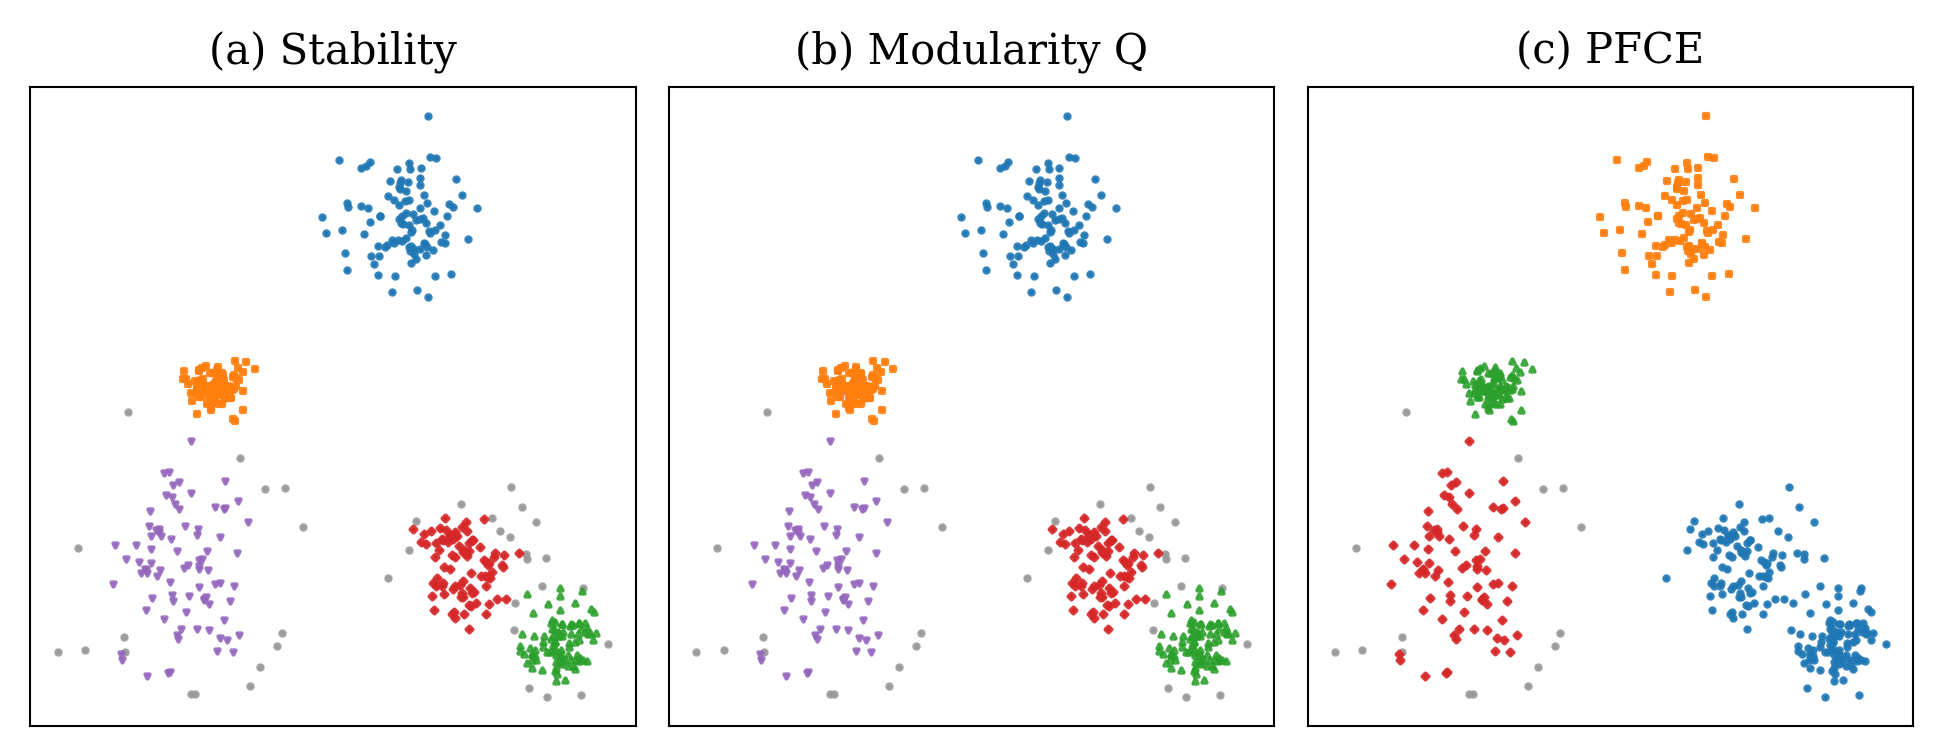
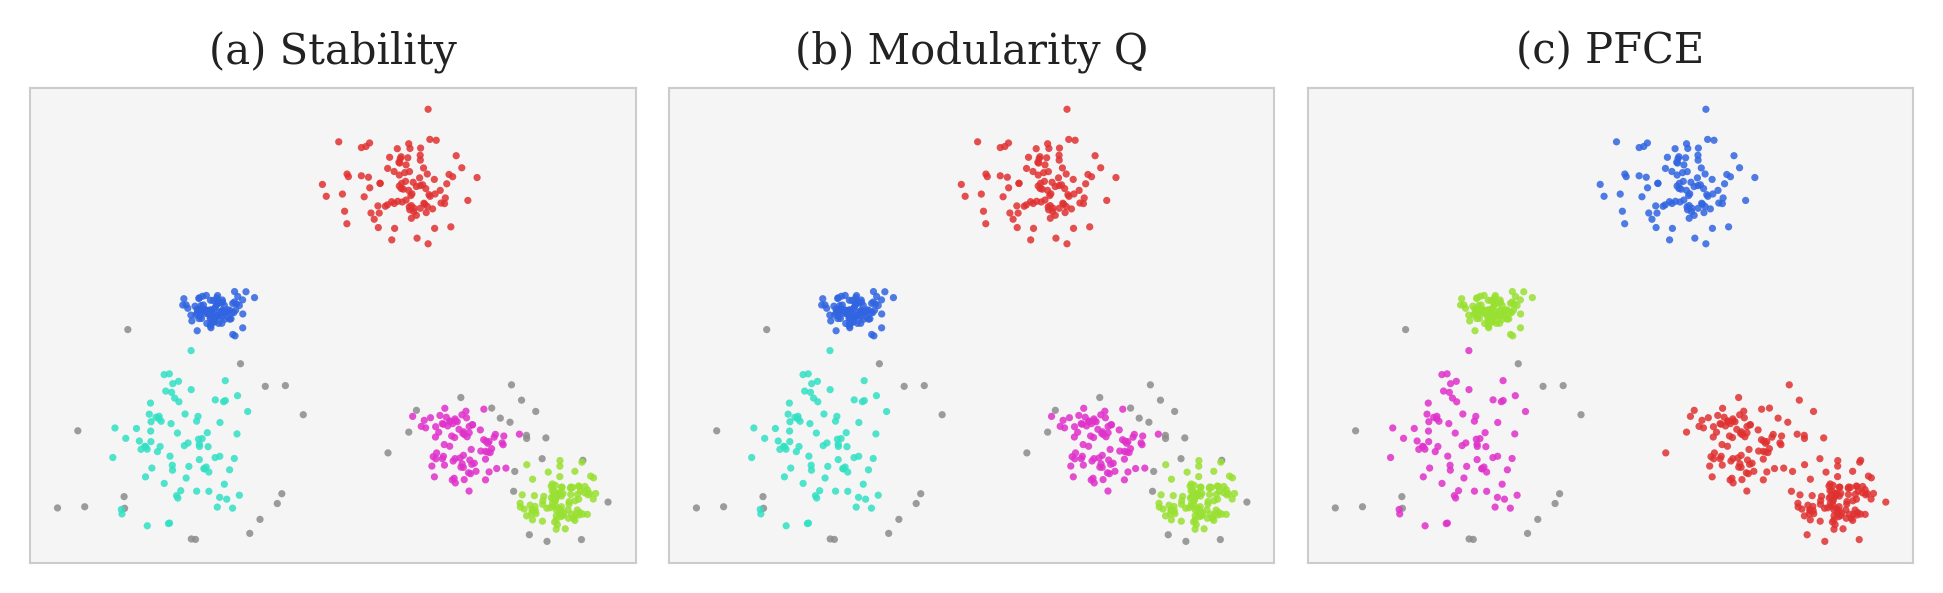
Add files via upload

diff --git a/docs/conf.py b/docs/conf.py
@@ -4,6 +4,8 @@ import os
 import sys
 from pathlib import Path
 import subprocess
+import foscx
+from foscx.foscx import FOSCX
 
 sys.path.insert(0, os.path.abspath("../src"))
 
@@ -15,12 +17,15 @@ author = 'Connor Simpson'
 release = '0.1.0'
 
 # -- General configuration ---------------------------------------------------
+primary_domain = 'py'
+default_role = 'py:obj'
 
 extensions = [
     'myst_parser',              # ✅ Markdown support
     'sphinx.ext.autodoc',
     'sphinx.ext.napoleon',
     'sphinx.ext.viewcode',
+    'sphinx.ext.intersphinx',
 ]
 napoleon_google_docstring = False
 napoleon_numpy_docstring = True
@@ -51,6 +56,10 @@ autodoc_default_options = {
     'undoc-members': True,
     'inherited-members': False,
 }
+
+autodoc_typehints = "description"
+
+autodoc_mock_imports = []
 
 # Skip sklearn internals
 def skip_member(app, what, name, obj, skip, options):

diff --git a/docs/basic_usage.rst b/docs/basic_usage.rst
@@ -1,34 +1,47 @@
 Basic Usage
 ===========
 
-FOSC-X (Framework for Optimal Extraction of Clusters) is designed to extract
-high-quality flat clusterings from a hierarchical clustering tree.
+FOSC-X is designed to extract multiple high-quality flat clusterings from hierarchical
+clustering trees.
 
-Rather than producing a single clustering, FOSC-X explores multiple possible
-solutions under optional cluster-count constraints. It returns the ``top_M``
-globally optimal solutions within these constraints, ranked from best to worst.
+Rather than producing a single clustering, FOSC-X explores a range of candidate
+solutions and returns the ``top_M`` best ones, ranked from best to worst.
+Optional constraints on the number of clusters (``kmin`` and ``kmax``) allow you
+to restrict the search to solutions of interest, focusing on a meaningful range
+of cluster counts.
+
+FOSC-X performs **local, non-horizontal cuts** of the hierarchy. This
+allows different branches of the tree to be cut at different levels, producing
+clusterings that better reflect the underlying structure of the data.
+
+The result is a set of high-quality, diverse clusterings that provide multiple
+plausible interpretations of the data, rather than a single fixed solution.
+
+FOSC-X follows a familiar scikit-learn style API, so if you have used sklearn
+estimators before, the workflow should feel natural.
+
+Supported Input Formats
+-----------------------
 
 FOSC-X is designed to work with a range of common hierarchical clustering outputs,
 including:
 
-- HDBSCAN 
-- scikit-learn (AgglomerativeClustering)
-- SciPy linkage matrices
-- Condensed Tree/Non-Binary tree matrices
-- Pre-Computed Trees (JSON) (See :ref:`JSON Tree format <json_tree>`)
+- HDBSCAN*  
+- scikit-learn (``AgglomerativeClustering`` and ``HDBSCAN*``)  
+- SciPy linkage matrices  
+- Condensed / non-binary tree matrices  
+- Pre-computed trees (JSON format) (see :ref:`json_tree`)  
 
-Using these formats is intentionally simple, just pass in the object or model you already have.
-For more details, see :ref:`tree_formats`.
+Using these formats is intentionally simple—just pass in the object or model you
+already have. For more details, see :ref:`tree_formats`.
 
-FOSC-X follows a familiar scikit-learn style API, so if you have used sklearn
-estimators before, the workflow should feel natural.
 
 Example
 -------
 
 Below is a minimal example using a SciPy-style hierarchical clustering.
 
-We begin by generating some sample data and constructing a hierarchical tree:
+We begin by generating some sample data and constructing a hierarchy:
 
 .. code-block:: python
 
@@ -36,29 +49,51 @@ We begin by generating some sample data and constructing a hierarchical tree:
     from scipy.cluster.hierarchy import linkage
     from sklearn.datasets import make_blobs
 
-    from foscx import FOSCX
-
     # Generate sample data
     X, _ = make_blobs(n_samples=300, centers=4, random_state=42)
 
-    # Build hierarchical clustering (SciPy linkage)
+    # Build hierarchical clustering
     Z = linkage(X, method="ward")
 
-Once we have a hierarchy, we can use FOSC-X to explore possible flat clusterings:
+Once we have a hierarchy, we can use FOSC-X to extract candidate clusterings:
 
 .. code-block:: python
 
-    # Initialize FOSC-X
-    model = FOSCX(top_M=5, kmin=2, kmax=None)
+    from foscx import FOSCX
 
-    # Fit model to hierarchy
+    model = FOSCX(top_M=5, kmin=2, kmax=None, min_cluster_size=None, quality_measure='stability',
+    singletons_as_noise=False, keep_noise_quality=None, nearest_neighbors=None, metric=None, 
+    density=False, tie_quality='stability', verbose=False)
+
     model.fit(Z)
+
+
+Core Parameters
+---------------
+
+FOSC-X is primarily controlled by three parameters:
+
+- ``top_M``  
+  Number of candidate clusterings to return  
+
+- ``kmin``  
+  Minimum number of clusters allowed  
+
+- ``kmax``  
+  Maximum number of clusters allowed  
+
+- ``quality_measure``  
+  Objective function used to evaluate clusterings (see :ref:`quality_measures`)
+
+Setting ``kmin=None`` and ``kmax=None`` performs an unconstrained search.
+
+For more details, see :ref:`parameters`.
+
 
 Candidate Clusterings
 ---------------------
 
-FOSC-X does not return a single clustering, but instead a set of candidate
-solutions ranked by quality:
+FOSC-X returns a set of candidate solutions ranked by quality:
 
 .. code-block:: python
 
@@ -75,108 +110,46 @@ A typical output might look like:
     22286.93    7             [301, 305, 354, 355, 356, 357, 314]
     22256.62    7             [301, 305, 313, 358, 359, 360, 361]
 
-Each row corresponds to a different clustering solution:
+Each row corresponds to a different clustering:
 
-- ``quality``: Objective value of the clustering  
-- ``n_clusters``: Number of clusters  
-- ``selected_nodes``: Internal representation of clusters  
+- ``quality``: objective value of the clustering  
+- ``n_clusters``: number of clusters  
+- ``selected_nodes``: nodes selected in the hierarchy  
 
-This allows you to investigate multiple plausible clusterings rather than only 
-obtaining a single result.
 
+The FOSC-X API also provides several methods for visualising and interpreting these candidate solutions, as described in :ref:`visualization`.
 
 Extracting Labels
 -----------------
 
-To convert one of these candidate solutions into a flat partition:
+To convert a candidate solution into a flat clustering:
 
 .. code-block:: python
 
     labels = model.get_labels(candidate_index=0)
 
-.. code-block:: text
-
-    array([3, 3, 3, ..., 3, 3, 3])
-
-Here, ``candidate_index`` selects which solution to use (from ``0`` to ``top_M - 1``).
-
-The result is a NumPy array of cluster labels for each data point, which can be
-used directly for analysis or visualization. Noise points are labeled as ``0``.
-
-Cluster Count Constraints
--------------------------
-
-FOSC-X can optionally restrict the range of clusterings considered using
-``kmin`` and ``kmax``, which define the minimum and maximum number of clusters.
-
-For example, setting ``kmin=2`` ensures that all returned solutions contain
-at least two clusters. Leaving ``kmax=None`` allows any larger number of clusters.
-
-These constraints are useful when you have prior knowledge about the expected
-number of clusters, or want to limit the search space.
+The result is a NumPy array of cluster labels for each data point. Noise observations
+are assigned the label ``-1``.
 
 
 Refining Clusterings
 --------------------
 
-Once the model has been fitted, alternative clusterings can be explored
-without reprocessing the hierarchy by calling the ``predict`` method.
-
-This allows you to adjust parameters such as ``top_M``, ``kmin``, and ``kmax``
-and quickly obtain new candidate solutions:
+Once a hierarchy has been processed, alternative solutions can be explored
+without recomputing everything by calling :meth:`FOSCX.predict`:
 
 .. code-block:: python
 
     model.predict(top_M=5, kmin=5, kmax=10)
 
+This allows rapid exploration of different constraints and solution sets.
 
 
-Quality Measures
-----------------
+Pre-processing and Noise
+------------------------
 
-FOSC-X supports multiple quality measures for evaluating clusterings, including
-``Stability``, ``Modularity``, and ``PFCE``. Stability is the default quality measure.
+FOSC-X includes several pre-processing steps that can affect the quality evaluation and solution space, including:
+- **Condensation**: removes small clusters and treats their leaves as noise
+- **Noise assignment**: allows manual specification of noise observations
 
-The quality measure can be selected when initializing the model:
-
-.. code-block:: python
-
-    model = FOSCX(quality_measure="Stability")
-
-Different measures may lead to different preferred clusterings depending on
-the structure of the data. See the Quality Measures section for a more detailed
-comparison.
-
-Modularity Q
-~~~~~~~~~~
-
-The Modularity Q measure evaluates clusterings based on a similarity graph
-constructed from the original data. As such, it requires access to the raw data,
-unless this is already available from the input clustering (for example, with
-HDBSCAN objects).
-
-In addition, the number of nearest neighbors and a distance metric must be
-specified. The metric should typically match the one used to generate the
-hierarchical clustering.
-
-.. code-block:: python
-
-    model = FOSCX(
-        quality_measure="modularity",
-        nearest_neighbors=5,
-        metric="euclidean"
-    )
-    model.fit(Z, y=X)
-
-Alternatively, a precomputed similarity graph may be used by setting
-``metric="precomputed"``, and supplied instead of the data X.
-
-For HDBSCAN objects, both the nearest neighbors and metric are inferred
-automatically from the clustering.
-
-PFCE
-~~~~
-
-The PFCE measure is only available when using HDBSCAN objects generated with
-the `hdbscan <https://hdbscan.readthedocs.io/>`_ package and requires no
-additional inputs.
+These steps can improve the robustness of Stability-based extraction and provide more control over the solution space. See :ref:`preprocessing` for details.

diff --git a/docs/advanced.rst b/docs/advanced.rst
@@ -1,3 +1,5 @@
+.. _advanced_usage:
+
 Advanced Usage: Working with the Hierarchy
 ===========================================
 
@@ -24,7 +26,6 @@ Individual nodes in the hierarchy can be inspected using:
 .. code-block:: python
 
     H.node_summary(node_id)
-
 
 
 This returns a dictionary containing key information about the node:
@@ -54,6 +55,7 @@ the hierarchy.
         'quality': 28309.19
     }
 
+The nodes 0:N-1 correspond to the original observations, while nodes N:2N-2 represent internal clusters. The root node is always N.
 
 Accessing and Modifying Quality
 -------------------------------
@@ -76,6 +78,8 @@ definitions:
 After modifying the quality vector, FOSC-X can be rerun without rebuilding the tree by calling model.predict(...).
 
 
+.. _advanced_noise:
+
 Accessing and Modifying Noise
 -----------------------------
 
@@ -85,7 +89,7 @@ Noise assignments are stored in:
 
     H.is_noise
 
-This is a binary array indicating whether each node is treated as noise.
+This is a binary array indicating whether each observation/leaf is treated as noise.
 
 Users may modify this to experiment with different noise definitions:
 
@@ -93,7 +97,7 @@ Users may modify this to experiment with different noise definitions:
 
     H.is_noise[...] = new_noise_mask
 
-After modifying noise assignments, bounds and candidate solutions should be recomputed using H.compute_bounds().
+After modifying noise assignments, bounds and candidate solutions must be recomputed using H.compute_bounds() and model.predict(...).
 
 
 Extracting Data from Nodes
@@ -103,7 +107,7 @@ To retrieve the data points associated with a node:
 
 .. code-block:: python
 
-    labels = H.get_node_labels(node_id)
+    labels = H.get_node_indices(node_id)
 
 This returns the indices of observations belonging to that cluster.
 

diff --git a/docs/input_processing.rst b/docs/input_processing.rst
@@ -1,8 +1,11 @@
+.. _preprocessing:
+
 Tree Processing and Noise
 =========================
 
-This section describes how preprocessing the cluster tree affects the behaviour
-of FOSC-X.
+FOSC-X supports several preprocessing operations that modify the cluster tree before extraction, 
+including tree condensation, simplification, and noise handling. 
+This section describes these options and their impact on the extraction process.
 
 Tree Condensation / Simplification
 ----------------------------------
@@ -87,7 +90,7 @@ Noise may be introduced into a hierarchy in several ways:
   modifying the tree structure  
 - **Pre-specified hierarchy**: noise labels provided directly in a JSON tree  
 - **Post-fit assignment**: noise defined manually via
-  ``model.cluster_tree_.is_noise``  
+  ``model.cluster_tree_.is_noise``  (see :ref:`advanced_noise`)
 
 The presence of noise affects both the feasible solution space and how cluster
 quality is evaluated.
@@ -119,5 +122,7 @@ The effect of this depends on the chosen quality measure:
 - **Stability**: noise always has zero quality  
 - **PFCE**: noise always has zero quality  
 - **Modularity**: noise may receive small (often negative) values  
+- **BCubed**: noise is assigned the quality value that would be obtained by treating each noise observation as a singleton cluster
+- **Constraint Satisfaction**: noise is assigned quality values according to the contribution of noise assignments to the constraint-satisfaction objective (e.g., cannot-link constraints)
 - **Precomputed (JSON)**: noise may be assigned arbitrary quality values  
 

diff --git a/docs/index.rst b/docs/index.rst
@@ -23,12 +23,11 @@ multiple candidate clusterings derived from a single hierarchy.
    :caption: Usage
 
    basic_usage
-   visualiszation
+   visualisation
    Tree_formats
    parameters
    quality
    input_processing
-   algorithm
    advanced
    performance
 